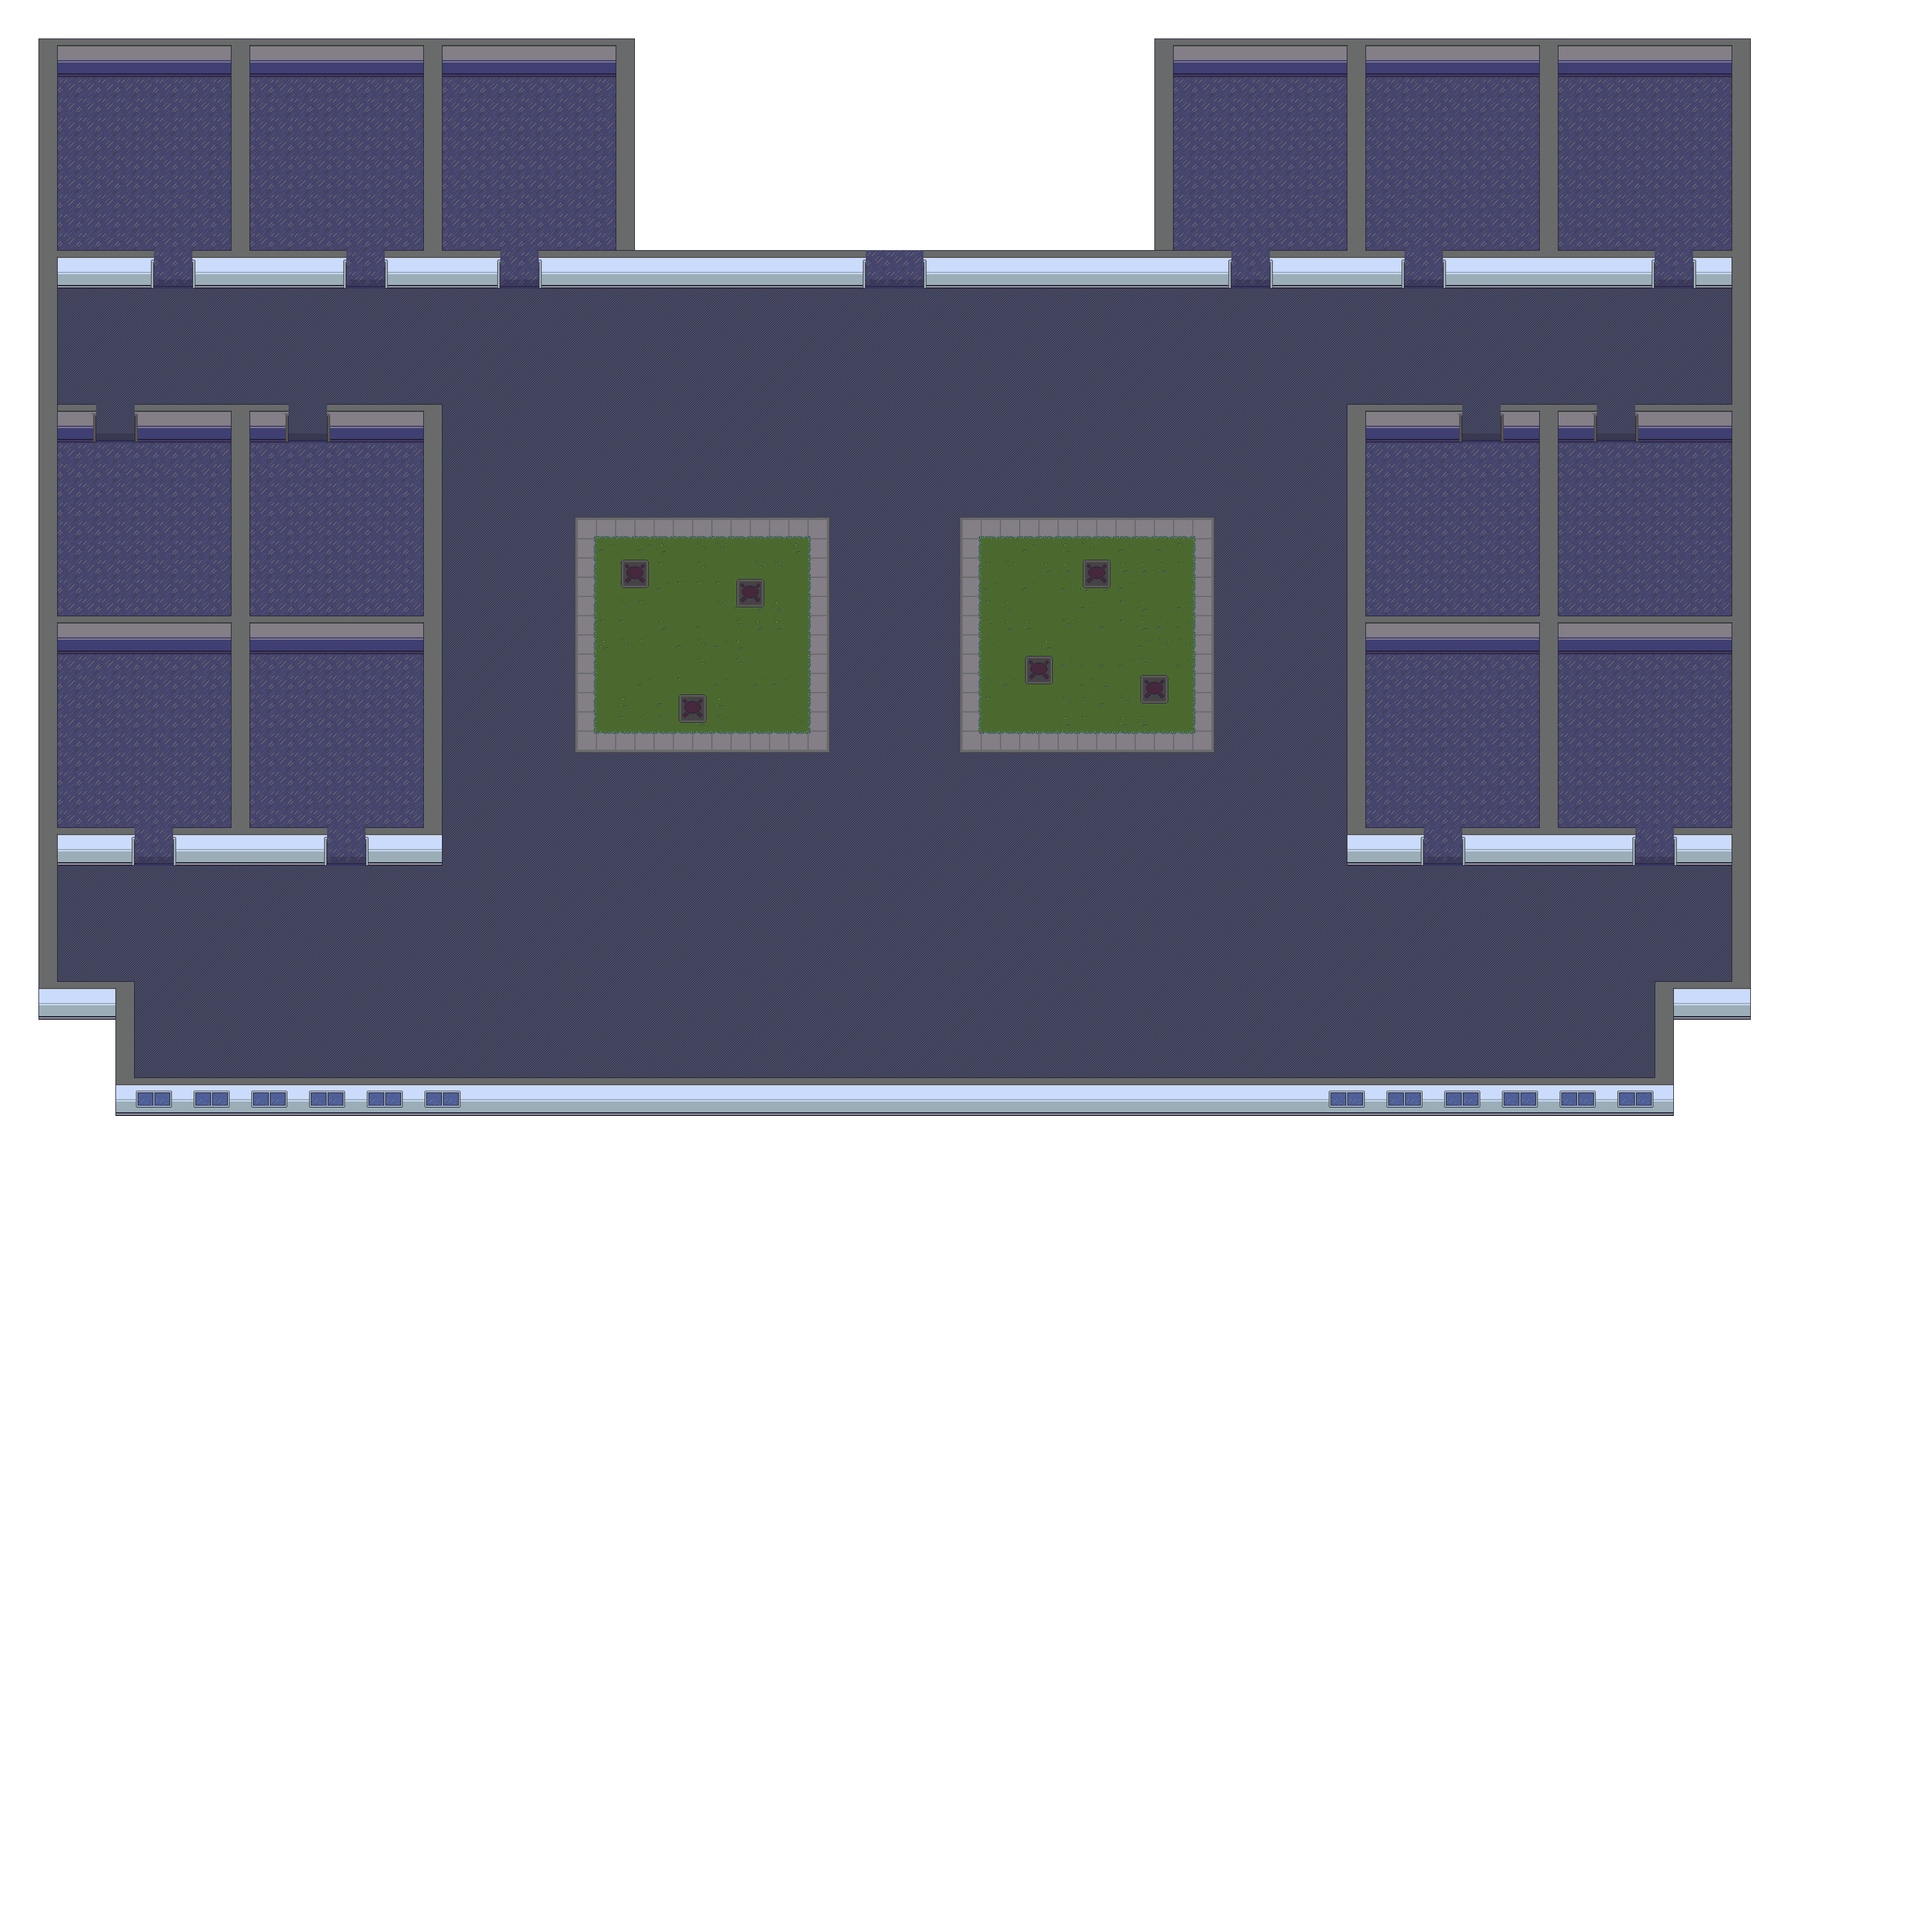
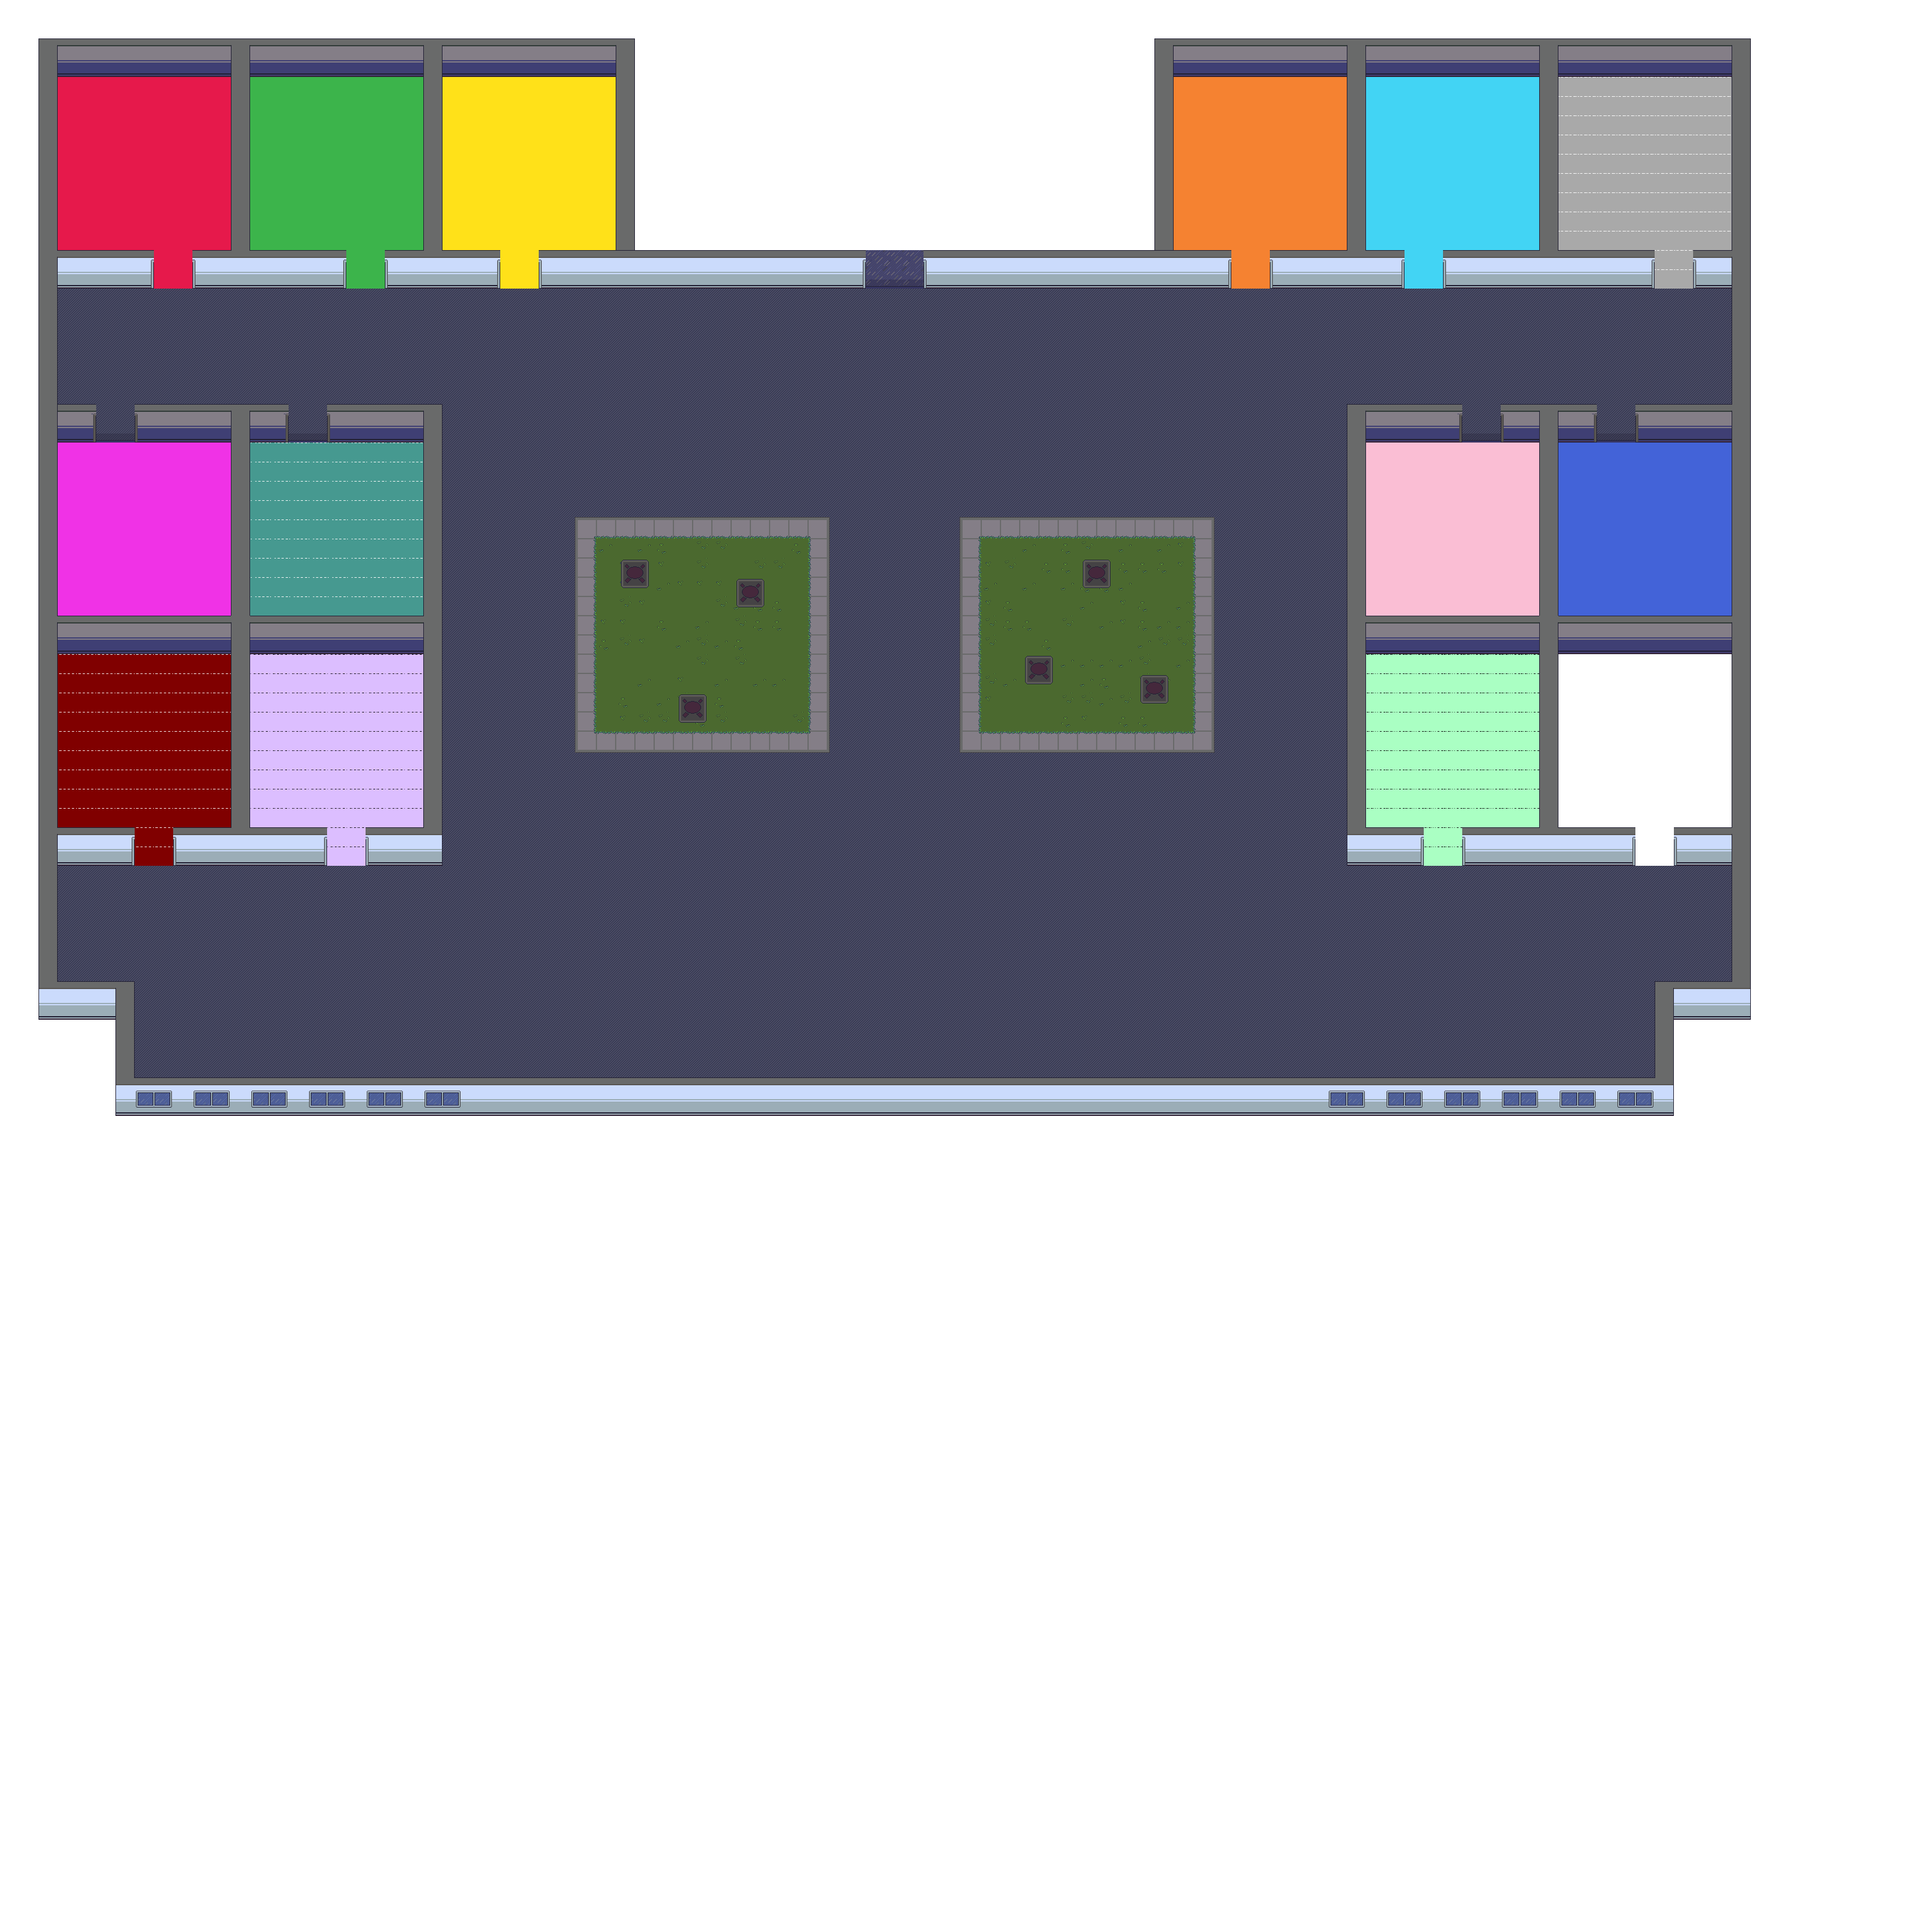
add colors

diff --git a/colors.tsx b/colors.tsx
@@ -1,0 +1,4 @@
+<?xml version="1.0" encoding="UTF-8"?>
+<tileset version="1.5" tiledversion="1.5.0" name="colors" tilewidth="32" tileheight="32" tilecount="147" columns="21">
+ <image source="colors.PNG" width="678" height="229"/>
+</tileset>
